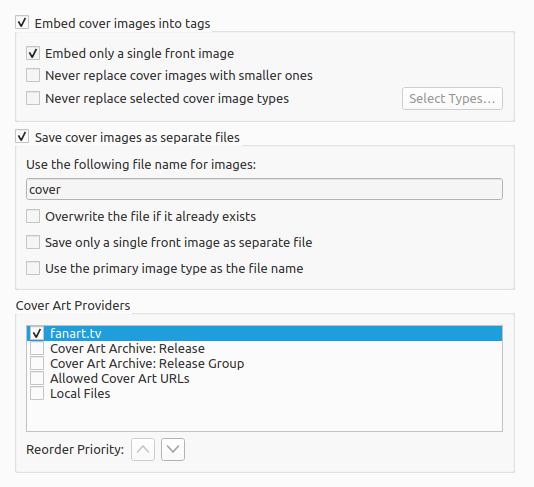
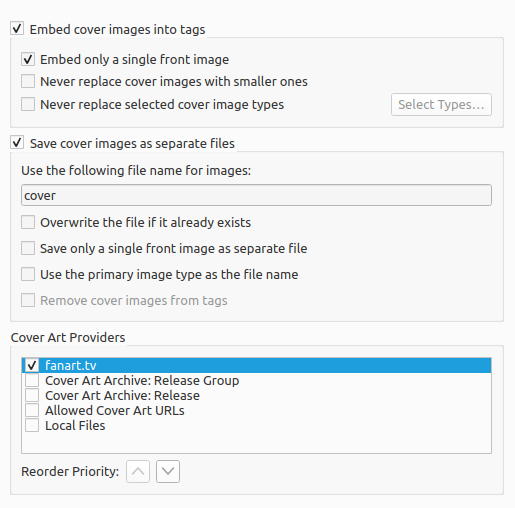
Add new option setting

Changed region(s): [[0.0, 0.2464, 0.9631, 0.9548], [0.0, 0.0308, 0.5903, 0.2156], [0.7456, 0.154, 0.9631, 0.2464]]

diff --git a/config/options_cover.rst b/config/options_cover.rst
@@ -72,6 +72,14 @@
 
    When checked, Picard will use the type of the image (e.g.: back, booklet, etc.) as the filename when saving, as long as the type is not front. If the image has been assigned multiple types, then the first type will be used. For example, if the image is of types "back" and "raw", then "back" will be used for the filename. If unchecked or if the image is of type "front", Picard will use the file name specified in the "Use the following file name for images" setting.
 
+**Remove cover images from tags**
+
+   When checked, Picard will automatically remove embedded cover images from your files when they are saved. This option is only available for setting if the "*Embed cover images into tags*" option is disabled.
+
+   Images will only be removed if they are also being saved as separate files.
+
+   Picard will **not** remove embedded cover images if the "*Embed cover images into tags*" option is enabled, even if the "*Remove cover images from tags*" option setting is enabled.
+
 
 Cover Art Providers
 -------------------
